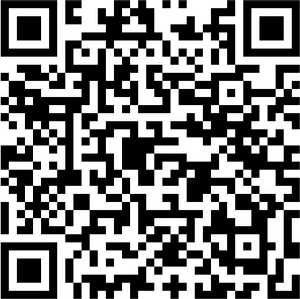
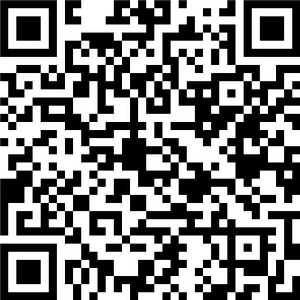
posts: Update wechat QR code

diff --git a/_posts/2015-11-10-board-welfare-for-tinylab-users.md b/_posts/2015-11-10-board-welfare-for-tinylab-users.md
@@ -7,9 +7,12 @@ permalink: /board-welfare-for-tinylab-users/
 description: "为了感谢原创、翻译作者的积极分享和交流，泰晓科技准备了一批半价优惠的开源开发板：pcDuino8 Uno 和 NodeMCU 给大家。"
 category:
   - 泰晓福利
+  - pcDuino
+  - NodeMCU
 tags:
   - pcDuino8 Uno
-  - NodeMCU
+  - 物联网
+  - H8
 ---
 
 ## 简介
@@ -23,9 +26,15 @@ tags:
 * pcDuino8 Uno：8 核嵌入式 Linux 开发板
 * NodeMCU：WIFI 物联网开发板。
 
-两款开发板，我们各准备了 **50** 套，在今年双十一当天（**今晚 00:00 开售**），均可 **半价** 购买，在其他时间，我们也会针对 **泰晓原创作者** 推出特别的优惠活动。欢迎踊跃 [投递原创稿件](http://tinylab.org/post/)。
+两款开发板，我们各准备了 **50** 套，在今年双十一当天（**今晚 00:00 开售**），均可 **半价** 购买，在其他时间，我们也会针对 **泰晓原创作者** 推出特别的优惠活动。
 
 详细信息请看下文。
+
+## 参与原创
+
+欢迎踊跃 [投稿](http://tinylab.org/post/)，参与泰晓原创与分享。下面是 **泰晓原创团队** 的微信交流群，微信扫码可加入（失效后可经由本文作者微信 lzufalcon 邀请）。
+
+<img src="/images/wechat/tinylab-weixin-group.jpg" title="NodeMCU" width="300">
 
 ## 福利清单
 
